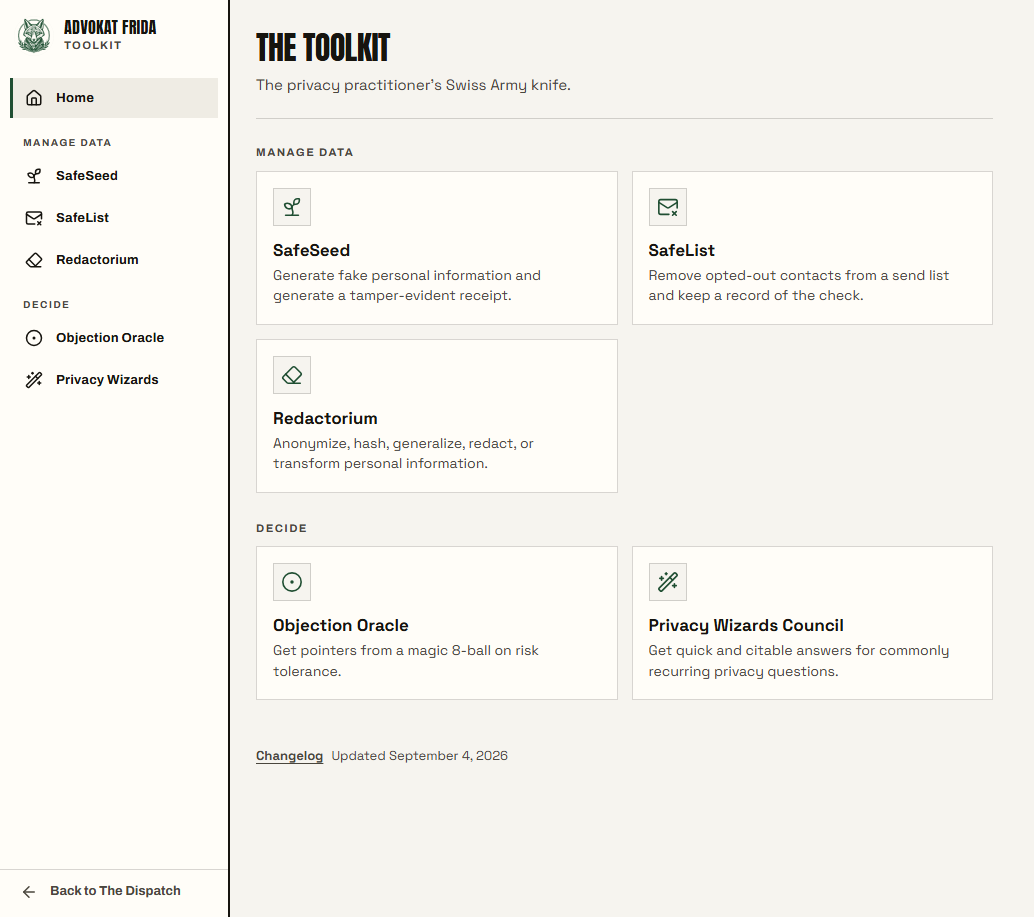
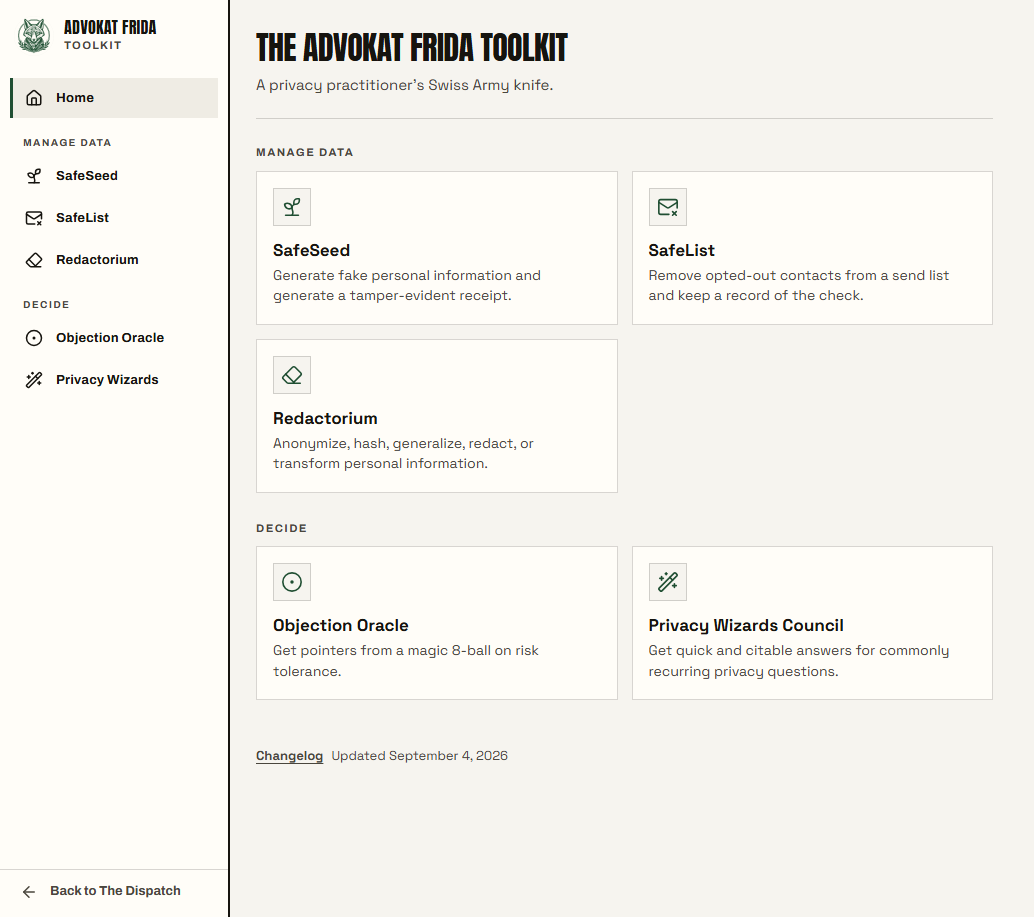
Home nameplate: The Advokat Frida Toolkit, a practitioner's Swiss Army knife (Ben, 2026-09-04)

Changed region(s): [[0.2476, 0.0305, 0.5571, 0.1221]]

diff --git a/public/index.html b/public/index.html
@@ -133,8 +133,8 @@
         <section class="view home-view" data-view="home" aria-labelledby="home-title">
           <div class="home-wrap">
             <header class="home-hero">
-              <h1 id="home-title" tabindex="-1">The Toolkit</h1>
-              <p class="home-lede">The privacy practitioner's Swiss Army knife.</p>
+              <h1 id="home-title" tabindex="-1">The Advokat Frida Toolkit</h1>
+              <p class="home-lede">A privacy practitioner's Swiss Army knife.</p>
             </header>
 
             <div class="home-groups" id="tool-grid">
